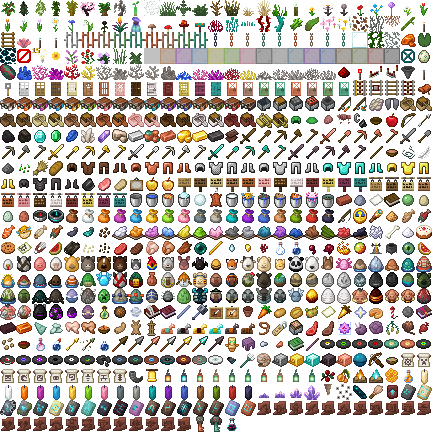
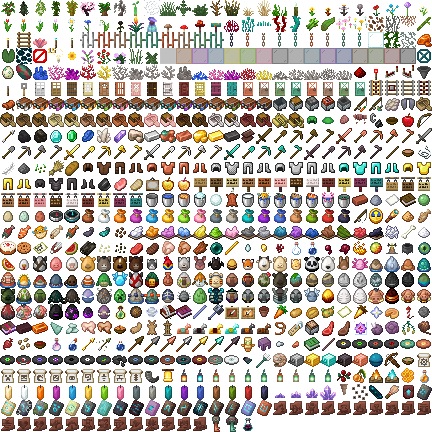
feat(26.1): updated companion to 26.1.2

diff --git a/BingoReloadedCompanion/src/client/java/io/github/steaf23/bingoreloadedcompanion/client/hud/BingoCardHudElement.java b/BingoReloadedCompanion/src/client/java/io/github/steaf23/bingoreloadedcompanion/client/hud/BingoCardHudElement.java
@@ -12,7 +12,7 @@ import net.minecraft.ChatFormatting;
 import net.minecraft.client.DeltaTracker;
 import net.minecraft.client.Minecraft;
 import net.minecraft.client.gui.Font;
-import net.minecraft.client.gui.GuiGraphics;
+import net.minecraft.client.gui.GuiGraphicsExtractor;
 import net.minecraft.client.renderer.RenderPipelines;
 import net.minecraft.network.chat.TextColor;
 import net.minecraft.resources.Identifier;
@@ -81,7 +81,7 @@ public class BingoCardHudElement implements HudElement {
 		lastHotswapUpdateTick = HudTimer.getTicks();
 	}
 
-	public void renderFromScreen(GuiGraphics drawContext, float tickDelta) {
+	public void renderFromScreen(GuiGraphicsExtractor drawContext, float tickDelta) {
 		if (!renderingInScreen) {
 			return;
 		}
@@ -89,7 +89,7 @@ public class BingoCardHudElement implements HudElement {
 	}
 
 	@Override
-	public void render(GuiGraphics drawContext, DeltaTracker renderTickCounter) {
+	public void extractRenderState(GuiGraphicsExtractor drawContext, DeltaTracker renderTickCounter) {
 		if (renderingInScreen) {
 			return;
 		}
@@ -100,7 +100,7 @@ public class BingoCardHudElement implements HudElement {
 		this.renderingInScreen = renderingInScreen;
 	}
 
-	public void renderElement(GuiGraphics drawContext, float tickDelta) {
+	public void renderElement(GuiGraphicsExtractor drawContext, float tickDelta) {
 		if (card == null || isHidden()) {
 			return;
 		}
@@ -116,7 +116,7 @@ public class BingoCardHudElement implements HudElement {
 		}
 	}
 
-	private void renderTasks(GuiGraphics context, float tickDelta) {
+	private void renderTasks(GuiGraphicsExtractor context, float tickDelta) {
 
 		HudConfigManager.Rect tasksRect = hudConfig.getUsedRectOfElement(TASKS_ELEMENT);
 		HudPlacement placement = hudConfig.getHudPlacement(TASKS_ELEMENT);
@@ -161,7 +161,7 @@ public class BingoCardHudElement implements HudElement {
 		matrices.popMatrix();
 	}
 
-	private void renderBanner(GuiGraphics context, float tickDelta) {
+	private void renderBanner(GuiGraphicsExtractor context, float tickDelta) {
 
 		HudConfigManager.Rect gamemodeRect = hudConfig.getUsedRectOfElement(GAMEMODE_ELEMENT);
 		HudPlacement placement = hudConfig.getHudPlacement(GAMEMODE_ELEMENT);
@@ -187,7 +187,7 @@ public class BingoCardHudElement implements HudElement {
 		matrices.popMatrix();
 	}
 
-	protected void renderTask(GuiGraphics drawContext, @NotNull Task task, int x, int y, @Nullable HotswapTaskHolder hotswapContext, float delta, double transparency) {
+	protected void renderTask(GuiGraphicsExtractor drawContext, @NotNull Task task, int x, int y, @Nullable HotswapTaskHolder hotswapContext, float delta, double transparency) {
 
 		boolean hotswapRecovering = hotswapContext != null && hotswapContext.recovering();
 		boolean hotswapExpires = hotswapContext != null && hotswapContext.expires();
@@ -226,7 +226,7 @@ public class BingoCardHudElement implements HudElement {
 
 		// Actual item representation of the task
 		ItemStack stack = new ItemStack(task.itemType(), task.requiredAmount());
-		drawContext.renderItem(stack, taskX, taskY);
+		drawContext.item(stack, taskX, taskY);
 
 		// Draw statistic/ advancement overlay sprite last
 		String taskType = task.taskType().toString();
@@ -241,10 +241,10 @@ public class BingoCardHudElement implements HudElement {
 
 		// Lastly draw the required amount of the task.
 		Font textRenderer = Minecraft.getInstance().font;
-		drawContext.renderItemDecorations(textRenderer, stack, taskX, taskY);
+		drawContext.itemDecorations(textRenderer, stack, taskX, taskY);
 	}
 
-	private void renderHotswapBackground(GuiGraphics context, float startTime, float currentTime, int x, int y, int color, boolean reverse) {
+	private void renderHotswapBackground(GuiGraphicsExtractor context, float startTime, float currentTime, int x, int y, int color, boolean reverse) {
 		int frameWidth = 21;
 		int frameHeight = 21;
 		int totalFrames = 62;

diff --git a/BingoReloadedCompanion/src/client/java/io/github/steaf23/bingoreloadedcompanion/client/BingoReloadedCompanionClient.java b/BingoReloadedCompanion/src/client/java/io/github/steaf23/bingoreloadedcompanion/client/BingoReloadedCompanionClient.java
@@ -15,7 +15,7 @@ import io.github.steaf23.bingoreloadedcompanion.network.ServerHotswapPayload;
 import io.github.steaf23.bingoreloadedcompanion.network.ServerUpdateCardPayload;
 import net.fabricmc.api.ClientModInitializer;
 import net.fabricmc.fabric.api.client.event.lifecycle.v1.ClientTickEvents;
-import net.fabricmc.fabric.api.client.keybinding.v1.KeyBindingHelper;
+import net.fabricmc.fabric.api.client.keymapping.v1.KeyMappingHelper;
 import net.fabricmc.fabric.api.client.networking.v1.ClientPlayConnectionEvents;
 import net.fabricmc.fabric.api.client.networking.v1.ClientPlayNetworking;
 import net.fabricmc.fabric.api.client.rendering.v1.hud.HudElementRegistry;
@@ -44,12 +44,12 @@ public class BingoReloadedCompanionClient implements ClientModInitializer {
 	@Override
 	public void onInitializeClient() {
 
-		PayloadTypeRegistry.playC2S().register(ClientHelloPayload.ID, ClientHelloPayload.CODEC);
-		PayloadTypeRegistry.playC2S().register(EditTaskListPayload.ID, EditTaskListPayload.CODEC);
+		PayloadTypeRegistry.serverboundPlay().register(ClientHelloPayload.ID, ClientHelloPayload.CODEC);
+		PayloadTypeRegistry.serverboundPlay().register(EditTaskListPayload.ID, EditTaskListPayload.CODEC);
 
-		PayloadTypeRegistry.playS2C().register(ServerUpdateCardPayload.ID, ServerUpdateCardPayload.CODEC);
-		PayloadTypeRegistry.playS2C().register(ServerHotswapPayload.ID, ServerHotswapPayload.CODEC);
-		PayloadTypeRegistry.playS2C().register(EditTaskListPayload.ID, EditTaskListPayload.CODEC);
+		PayloadTypeRegistry.clientboundPlay().register(ServerUpdateCardPayload.ID, ServerUpdateCardPayload.CODEC);
+		PayloadTypeRegistry.clientboundPlay().register(ServerHotswapPayload.ID, ServerHotswapPayload.CODEC);
+		PayloadTypeRegistry.clientboundPlay().register(EditTaskListPayload.ID, EditTaskListPayload.CODEC);
 
 		HUD_CONFIG.load();
 
@@ -62,7 +62,7 @@ public class BingoReloadedCompanionClient implements ClientModInitializer {
 		ScreenEvents.AFTER_INIT.register((client, screen, scaledWidth, scaledHeight) -> {
 			if (screen instanceof AbstractContainerScreen<?> containerScreen) {
 				cardElement.setRenderingInScreen(true);
-				ScreenEvents.afterRender(screen).register((renderedScreen, drawContext, mouseX, mouseY, tickDelta) -> {
+				ScreenEvents.afterExtract(screen).register((renderedScreen, drawContext, mouseX, mouseY, tickDelta) -> {
 
 					cardElement.renderFromScreen(drawContext, tickDelta);
 				});
@@ -103,7 +103,7 @@ public class BingoReloadedCompanionClient implements ClientModInitializer {
 				});
 
 		KeyMapping.Category category = KeyMapping.Category.register(Identifier.fromNamespaceAndPath("bingoreloadedcompanion", "main"));
-		KeyMapping toggleCardVisibility = KeyBindingHelper.registerKeyBinding(new KeyMapping(
+		KeyMapping toggleCardVisibility = KeyMappingHelper.registerKeyMapping(new KeyMapping(
 				"key.bingoreloadedcompanion.toggle_card_visibility",
 				InputConstants.Type.KEYSYM,
 				GLFW.GLFW_KEY_R,

diff --git a/BingoReloadedCompanion/src/client/java/io/github/steaf23/bingoreloadedcompanion/client/creator/BingoCardTaskListScreen.java b/BingoReloadedCompanion/src/client/java/io/github/steaf23/bingoreloadedcompanion/client/creator/BingoCardTaskListScreen.java
@@ -6,7 +6,7 @@ import io.github.steaf23.bingoreloadedcompanion.card.taskslot.TaskSlot;
 import io.github.steaf23.bingoreloadedcompanion.client.TaskTooltipComponent;
 import io.github.steaf23.bingoreloadedcompanion.client.util.ScreenHelper;
 import net.minecraft.client.Minecraft;
-import net.minecraft.client.gui.GuiGraphics;
+import net.minecraft.client.gui.GuiGraphicsExtractor;
 import net.minecraft.client.gui.components.EditBox;
 import net.minecraft.client.gui.screens.Screen;
 import net.minecraft.client.gui.screens.inventory.tooltip.DefaultTooltipPositioner;
@@ -223,8 +223,8 @@ public class BingoCardTaskListScreen extends Screen {
 	}
 
 	@Override
-	public void render(GuiGraphics context, int mouseX, int mouseY, float deltaTicks) {
-		super.render(context, mouseX, mouseY, deltaTicks);
+	public void extractRenderState(GuiGraphicsExtractor context, int mouseX, int mouseY, float deltaTicks) {
+		super.extractRenderState(context, mouseX, mouseY, deltaTicks);
 
 		int startX = menuStartX();
 		int startY = menuStartY();
@@ -244,10 +244,10 @@ public class BingoCardTaskListScreen extends Screen {
 		context.blitSprite(RenderPipelines.GUI_TEXTURED, TAB_SELECTED, firstTabX + getTabStartX(selectedTab), tabStartY, TAB_WIDTH, TAB_HEIGHT);
 
 		for (TaskTab tab : TABS) {
-			context.renderItem(tab.icon.getDefaultInstance(), firstTabX + getTabStartX(tab) + (TAB_WIDTH - 16) / 2, tabStartY + 8);
+			context.item(tab.icon.getDefaultInstance(), firstTabX + getTabStartX(tab) + (TAB_WIDTH - 16) / 2, tabStartY + 8);
 		}
 
-		context.drawString(Minecraft.getInstance().font, selectedTab.name(), startX + 8, startY + 6, CommonColors.DARK_GRAY, false);
+		context.text(Minecraft.getInstance().font, selectedTab.name(), startX + 8, startY + 6, CommonColors.DARK_GRAY, false);
 
 		if (filteredItemTasks.size() > 40) {
 			int scrollRange = SCROLL_HEIGHT - SCROLLER_HEIGHT;
@@ -291,8 +291,8 @@ public class BingoCardTaskListScreen extends Screen {
 			else {
 
 				ItemStack stack = new ItemStack(task.item(), task.completeCount() == 0 ? 1 : task.completeCount());
-				context.renderItem(stack, x, y);
-				context.renderItemDecorations(font, stack, x, y, task.completeCount() == 1 ? "1" : null);
+				context.item(stack, x, y);
+				context.itemDecorations(font, stack, x, y, task.completeCount() == 1 ? "1" : null);
 			}
 
 			index++;
@@ -312,7 +312,7 @@ public class BingoCardTaskListScreen extends Screen {
 
 			TaskTooltipComponent tooltipComponent = new TaskTooltipComponent(hoveredTask);
 
-			context.renderTooltip(font, List.of(tooltipComponent), slotX - tooltipComponent.getWidth(font) / 2, slotY - tooltipComponent.getHeight(font) + 9, DefaultTooltipPositioner.INSTANCE, null);
+			context.tooltip(font, List.of(tooltipComponent), slotX - tooltipComponent.getWidth(font) / 2, slotY - tooltipComponent.getHeight(font) + 9, DefaultTooltipPositioner.INSTANCE, null);
 		}
 
 		// Tooltips

diff --git a/BingoReloadedCompanion/src/client/java/io/github/steaf23/bingoreloadedcompanion/client/TaskTooltipComponent.java b/BingoReloadedCompanion/src/client/java/io/github/steaf23/bingoreloadedcompanion/client/TaskTooltipComponent.java
@@ -2,7 +2,7 @@ package io.github.steaf23.bingoreloadedcompanion.client;
 
 import io.github.steaf23.bingoreloadedcompanion.card.taskslot.TaskSlot;
 import net.minecraft.client.gui.Font;
-import net.minecraft.client.gui.GuiGraphics;
+import net.minecraft.client.gui.GuiGraphicsExtractor;
 import net.minecraft.client.gui.screens.inventory.tooltip.ClientTooltipComponent;
 import net.minecraft.client.renderer.RenderPipelines;
 import net.minecraft.network.chat.Component;
@@ -34,15 +34,16 @@ public class TaskTooltipComponent implements ClientTooltipComponent {
 		return 20 + textRenderer.width(taskName) + 4;
 	}
 
+
 	@Override
-	public void renderImage(Font textRenderer, int x, int y, int width, int height, GuiGraphics context) {
+	public void extractImage(Font textRenderer, int x, int y, int width, int height, GuiGraphicsExtractor context) {
 		context.blitSprite(RenderPipelines.GUI_TEXTURED, ICON_BACKGROUND, x, y, 24, 24);
-		context.renderItem(icon, x + 4, y + 4);
-		context.renderItemDecorations(textRenderer, icon, x + 4, y + 4);
+		context.item(icon, x + 4, y + 4);
+		context.itemDecorations(textRenderer, icon, x + 4, y + 4);
 	}
 
 	@Override
-	public void renderText(GuiGraphics context, Font textRenderer, int x, int y) {
-		context.drawString(textRenderer, taskName, x + 24, y, CommonColors.WHITE, true);
+	public void extractText(GuiGraphicsExtractor context, Font textRenderer, int x, int y) {
+		context.text(textRenderer, taskName, x + 24, y, CommonColors.WHITE, true);
 	}
 }

diff --git a/BingoReloadedCompanion/src/client/java/io/github/steaf23/bingoreloadedcompanion/client/config/BingoConfigScreen.java b/BingoReloadedCompanion/src/client/java/io/github/steaf23/bingoreloadedcompanion/client/config/BingoConfigScreen.java
@@ -10,7 +10,7 @@ import io.github.steaf23.bingoreloadedcompanion.client.hud.HudPlacement;
 import io.github.steaf23.bingoreloadedcompanion.client.util.ScreenHelper;
 import net.minecraft.ChatFormatting;
 import net.minecraft.client.Minecraft;
-import net.minecraft.client.gui.GuiGraphics;
+import net.minecraft.client.gui.GuiGraphicsExtractor;
 import net.minecraft.client.gui.components.Button;
 import net.minecraft.client.gui.screens.Screen;
 import net.minecraft.client.input.KeyEvent;
@@ -107,8 +107,8 @@ public class BingoConfigScreen extends Screen {
 	}
 
 	@Override
-	public void render(GuiGraphics context, int mouseX, int mouseY, float deltaTicks) {
-		super.render(context, mouseX, mouseY, deltaTicks);
+	public void extractRenderState(GuiGraphicsExtractor context, int mouseX, int mouseY, float deltaTicks) {
+		super.extractRenderState(context, mouseX, mouseY, deltaTicks);
 
 		previewCard.renderElement(context, deltaTicks);
 
@@ -136,7 +136,7 @@ public class BingoConfigScreen extends Screen {
 			for (Component t : text) {
 				int textWidth = font.width(t);
 				int textX = width / 2 - (textWidth / 2);
-				context.drawString(font, t, textX, y, ScreenHelper.addAlphaToColor(ChatFormatting.WHITE.getColor(), (int)(255 * infoAlpha)), true);
+				context.text(font, t, textX, y, ScreenHelper.addAlphaToColor(ChatFormatting.WHITE.getColor(), (int)(255 * infoAlpha)), true);
 				y += 15;
 			}
 		}
@@ -152,7 +152,7 @@ public class BingoConfigScreen extends Screen {
 			}
 
 			if (selectedElement == element) {
-				context.renderOutline(rect.x() - 3, rect.y() - 3, rect.width() + 6, rect.height() + 6, ScreenHelper.addAlphaToColor(ChatFormatting.YELLOW.getColor(), 200));
+				context.outline(rect.x() - 3, rect.y() - 3, rect.width() + 6, rect.height() + 6, ScreenHelper.addAlphaToColor(ChatFormatting.YELLOW.getColor(), 200));
 
 				int showButtonX = rect.endX() - (BUTTON_WIDTH * 2 + 2);
 				int scaleButtonX = rect.endX() - (BUTTON_WIDTH * 3 + 4);
@@ -201,7 +201,7 @@ public class BingoConfigScreen extends Screen {
 		}
 	}
 
-	private void drawSlider(GuiGraphics context, int x, int y, double value, int mouseX, int mouseY) {
+	private void drawSlider(GuiGraphicsExtractor context, int x, int y, double value, int mouseX, int mouseY) {
 		Identifier sliderTexture = SLIDER_BUTTON_SLIDER;
 		if (isMouseOverTransparencySlider(mouseX, mouseY)) {
 			context.setTooltipForNextFrame(Minecraft.getInstance().font, Component.nullToEmpty("Transparency"), mouseX, mouseY);

diff --git a/BingoReloadedCompanion/src/client/java/io/github/steaf23/bingoreloadedcompanion/client/config/DiscardConfirmScreen.java b/BingoReloadedCompanion/src/client/java/io/github/steaf23/bingoreloadedcompanion/client/config/DiscardConfirmScreen.java
@@ -3,7 +3,7 @@ package io.github.steaf23.bingoreloadedcompanion.client.config;
 import io.github.steaf23.bingoreloadedcompanion.client.util.ScreenHelper;
 import net.minecraft.ChatFormatting;
 import net.minecraft.client.Minecraft;
-import net.minecraft.client.gui.GuiGraphics;
+import net.minecraft.client.gui.GuiGraphicsExtractor;
 import net.minecraft.client.gui.components.Button;
 import net.minecraft.client.gui.screens.Screen;
 import net.minecraft.network.chat.Component;
@@ -45,7 +45,7 @@ public class DiscardConfirmScreen extends Screen {
 	}
 
 	@Override
-	public void render(GuiGraphics context, int mouseX, int mouseY, float deltaTicks) {
+	public void extractRenderState(GuiGraphicsExtractor context, int mouseX, int mouseY, float deltaTicks) {
 
 		List<Component> text = List.of(
 				Component.nullToEmpty("You have made edits that have not been saved."),
@@ -54,11 +54,11 @@ public class DiscardConfirmScreen extends Screen {
 		int i = height / 4;
 		int lineHeight = 15;
 		for (Component line : text) {
-			context.drawString(font, line, width / 2 - font.width(line) / 2, i, ScreenHelper.addAlphaToColor(ChatFormatting.WHITE.getColor(), 255));
+			context.text(font, line, width / 2 - font.width(line) / 2, i, ScreenHelper.addAlphaToColor(ChatFormatting.WHITE.getColor(), 255));
 			i += lineHeight;
 		}
 
-		super.render(context, mouseX, mouseY, deltaTicks);
+		super.extractRenderState(context, mouseX, mouseY, deltaTicks);
 	}
 
 	@Override

diff --git a/BingoReloadedCompanion/src/main/java/io/github/steaf23/bingoreloadedcompanion/card/taskslot/AdvancementTask.java b/BingoReloadedCompanion/src/main/java/io/github/steaf23/bingoreloadedcompanion/card/taskslot/AdvancementTask.java
@@ -16,7 +16,7 @@ public record AdvancementTask(AdvancementHolder advancement, boolean counted) im
 	@Override
 	public Item item() {
 		if (advancement.value().display().isPresent()) {
-			return advancement.value().display().get().getIcon().getItem();
+			return advancement.value().display().get().getIcon().item().value();
 		}
 		return Items.BEDROCK;
 	}

diff --git a/BingoReloadedCompanion/src/main/java/io/github/steaf23/bingoreloadedcompanion/card/taskslot/StatisticTypeTask.java b/BingoReloadedCompanion/src/main/java/io/github/steaf23/bingoreloadedcompanion/card/taskslot/StatisticTypeTask.java
@@ -21,7 +21,7 @@ public record StatisticTypeTask<T>(StatType<T> stat, T data, int count) implemen
 	public Item item() {
 		return switch (data) {
 			case Item itemData -> itemData;
-			case EntityType<?> entity -> SpawnEggItem.byId(entity);
+			case EntityType<?> entity -> SpawnEggItem.byId(entity).orElseThrow().value();
 			case Block blockData -> blockData.asItem();
 			default -> Items.BEDROCK;
 		};